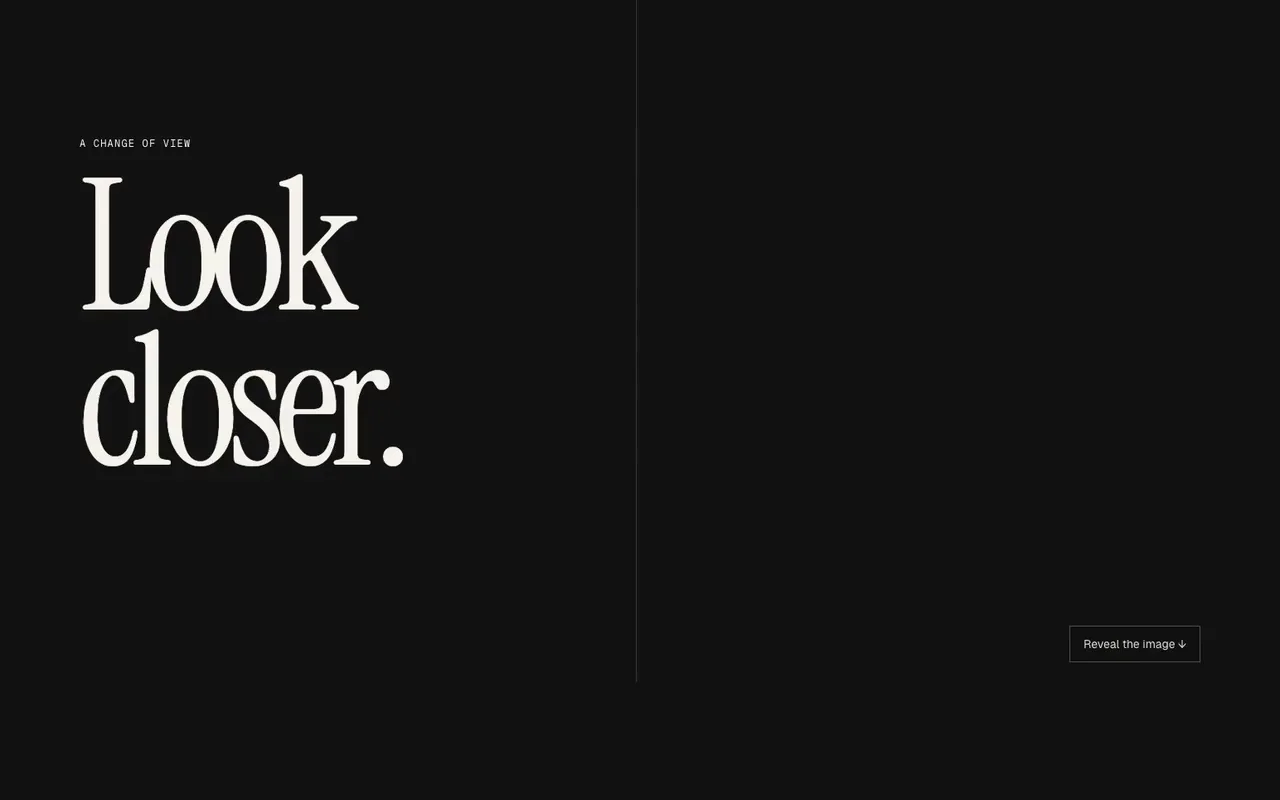
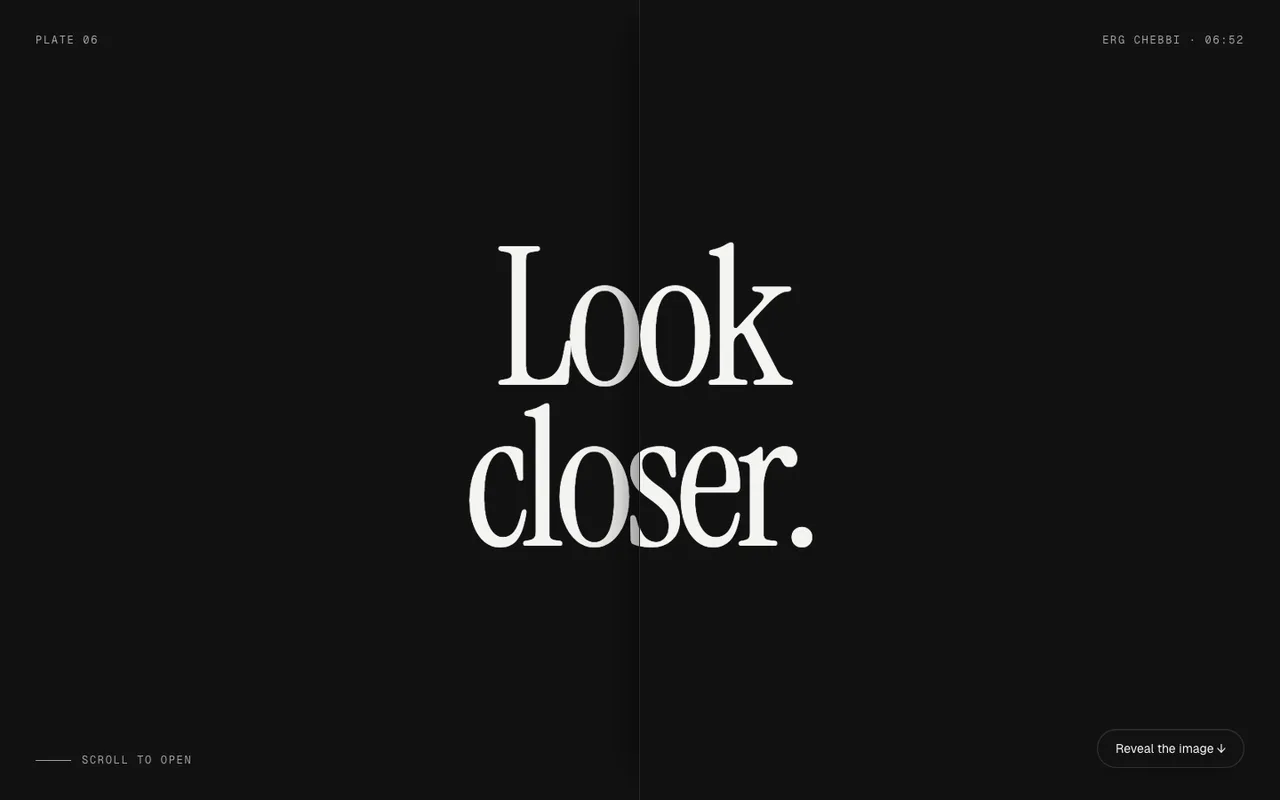
test(scroll-image-curtain): verify reveal, return and responsive poster

diff --git a/docs/review/HANDOFF_TASKS.md b/docs/review/HANDOFF_TASKS.md
@@ -64,6 +64,8 @@ and how to know it's done. Pick any of them up independently. Background, briefs
 
 - Task 5: added Prompt Journal coverage for the keyboard Next action, roving prompt tabs, drafts per prompt, save failure/retry, character limits and empty prompts. Hidden or pending navigation is disabled, the web deck uses group semantics, and empty decks cannot accept text they would discard. The source-fixture regression, settled accessibility checks and writing/error/pending/saved/empty captures pass.
 
+- Task 6: finished Image Curtain and removed its parked patch. Native scroll parts a split title over the image, and keyboard return follows the same geometry. Captions retain contrast over white host images, failed images keep their fallback, and long copy/reduced motion flow normally. Source-fixture scroll/reversal, live demo, edge cases, controls, accessibility, responsive captures and refreshed poster pass. Its film remains in task 1.
+
 ## Ground rules (read first)
 
 - Two repos. Public: `richawo/Design-components-for-AI-agents` (this one). Pro: `richawo/Design-for-AI`, private, cloned
@@ -81,7 +83,7 @@ and how to know it's done. Pick any of them up independently. Background, briefs
 - Browser checks: `node scripts/check-component.mjs <slug> --base=http://localhost:3100 --no-video --keep-going`
   (screenshots at 1440/768/390 and every control flip; read the screenshots it writes to `test-results/check/<slug>/`).
 
-## 1. Re-record demo videos (137 components)
+## 1. Re-record demo videos (138 components)
 
 Every rebuilt component's poster is current but its catalogue film (`public/previews/<slug>.mp4`) still shows the old
 version. Record them one at a time on an otherwise idle machine; the recorder rejects frame stalls under load.
@@ -132,7 +134,7 @@ Slugs:
 `media-trim-timeline`, `navigation-context-rail`, `navigation-lens-dock`, `navigation-stacked-tabs`
 `pixel-halftone-image`, `portfolio-project-reel`, `pricing-seat-simulator`, `pricing-usage-calculator`
 `social-proof-case-ledger`, `text-number-odometer`, `text-optical-weight`, `text-outline-fill`
-`text-path-typesetter`, `finance-budget-variance`, `finance-cashflow-dashboard`, `fashion-preorder-planner`, `fashion-collection-line-plan`, `fashion-merchandising-dashboard`, `fashion-size-guide`
+`text-path-typesetter`, `scroll-image-curtain`, `finance-budget-variance`, `finance-cashflow-dashboard`, `fashion-preorder-planner`, `fashion-collection-line-plan`, `fashion-merchandising-dashboard`, `fashion-size-guide`
 
 ## 2. Retake stale posters (complete)
 
@@ -233,7 +235,7 @@ see `tests/browser/mobile-accessibility-probe.mjs` for a native example.
 `pricing-usage-calculator`, `social-proof-case-ledger`, `text-number-odometer`, `text-optical-weight`
 `text-outline-fill`, `text-path-typesetter`
 
-## 6. Finish parked rebuilds (three remaining)
+## 6. Finish parked rebuilds (two remaining)
 
 Rebuilt but not shipped; the live components are still the old versions. Each lives in the Pro repo at
 `registry/pro/_wip/<slug>/` with `component.patch`, `guide.json` and sometimes `probe.mjs`. To resume one:
@@ -253,7 +255,7 @@ run the checks, and delete `_wip/<slug>` in the Pro commit that ships it.
 | fashion-collection-line-plan | Completed 17 October: source-fixture regression/demo, both-theme accessibility and responsive/state/entrance captures pass; prompts/poster current; Fashion Workspace draft/save regression passes. |
 | fashion-merchandising-dashboard | Completed 17 October: source-fixture regression/demo, both-theme accessibility and responsive/state/entrance captures pass; prompts/poster current; Fashion Workspace regression passes. |
 | fashion-size-guide | Completed 17 October: source-fixture regression/demo including missing and empty grades, native palettes, both-theme accessibility and responsive/state/entrance captures pass; prompts/poster current. |
-| scroll-image-curtain | `pro-scroll-probe` "follows native scroll" not yet passing; visual check; poster |
+| scroll-image-curtain | Completed 17 October: source-fixture scroll/reversal, live demo, keyboard and image/long-copy/reduced-motion fallbacks, controls, accessibility and responsive captures pass; poster current. |
 | scroll-horizontal-showcase | visual check; live demo check; poster (scroll probe passed) |
 | scroll-expanding-mosaic | poster captured blank; scroll probe's change and reversal checks not passing on final code |
 | finance-budget-variance | Completed 17 October: Next probe, dark/light accessibility, responsive and entrance/state captures, live demo and refreshed poster pass. |

diff --git a/docs/review/STATUS.md b/docs/review/STATUS.md
@@ -1,6 +1,6 @@
 # Review status
 
-155 components are rebuilt (or, for a few, polished), verified and committed. For each: whether its demo video
+156 components are rebuilt (or, for a few, polished), verified and committed. For each: whether its demo video
 needs re-recording, whether its poster is current, and the state of its browser regression probe.
 
 - **Video**: `new` means `public/previews/<slug>.mp4` still shows the old version. Re-record serially on a quiet machine:
@@ -175,7 +175,7 @@ needs re-recording, whether its poster is current, and the state of its browser 
 | `commerce-customer-timeline` | new | current | rewritten, passes on suite runner with source fixtures; Next route check pending |
 | `commerce-shipping-estimator` | new | current | rewritten, passed before a formatting-only pass; rerun |
 
-## Scroll and layout (5)
+## Scroll and layout (6)
 
 | Slug | Video | Poster | Probe |
 | --- | --- | --- | --- |
@@ -184,6 +184,7 @@ needs re-recording, whether its poster is current, and the state of its browser 
 | `scroll-background-wipe` | new | current | pro-scroll-probe passed (video section needs a webm-capable Chromium) |
 | `scroll-chapter-stack` | new | current | pro-scroll-probe passed (video section needs a webm-capable Chromium) |
 | `scroll-cinema-frame` | new | current | pro-scroll-probe passed (video section needs a webm-capable Chromium) |
+| `scroll-image-curtain` | new | current | source-fixture scroll/reversal, live demo, keyboard, failed-image/long-copy/reduced-motion states, controls and accessibility pass |
 
 ## Marketing, media, navigation and other (39)
 
